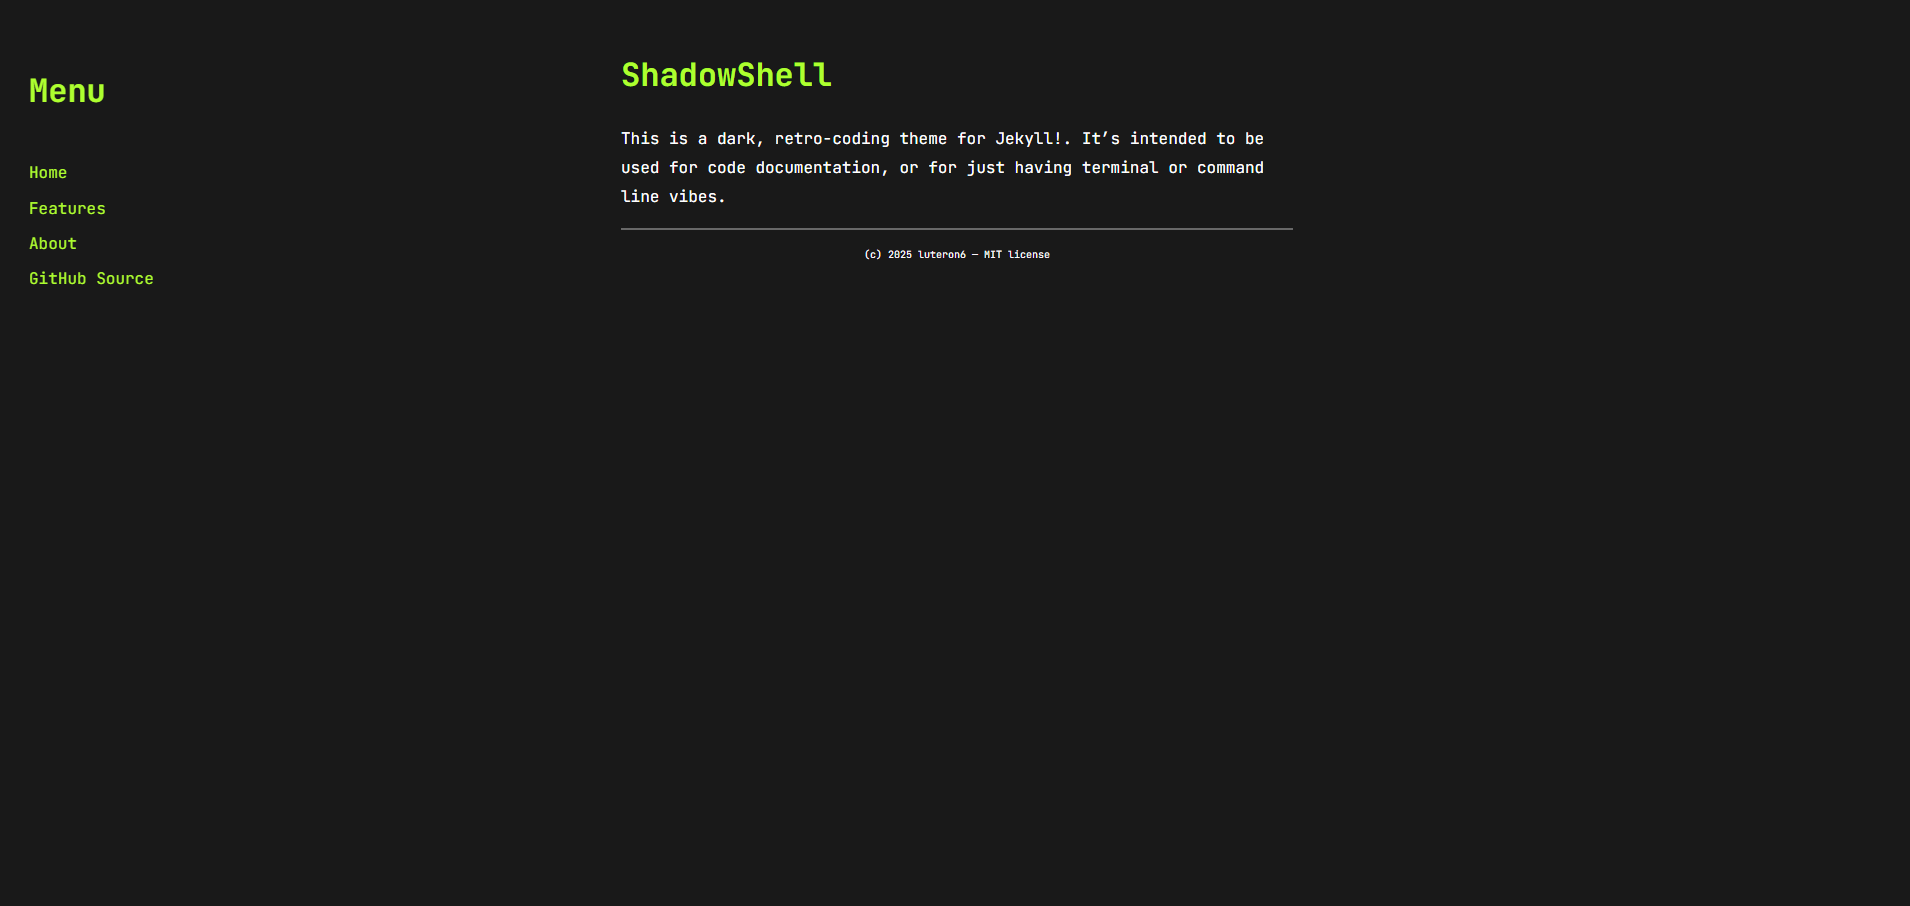
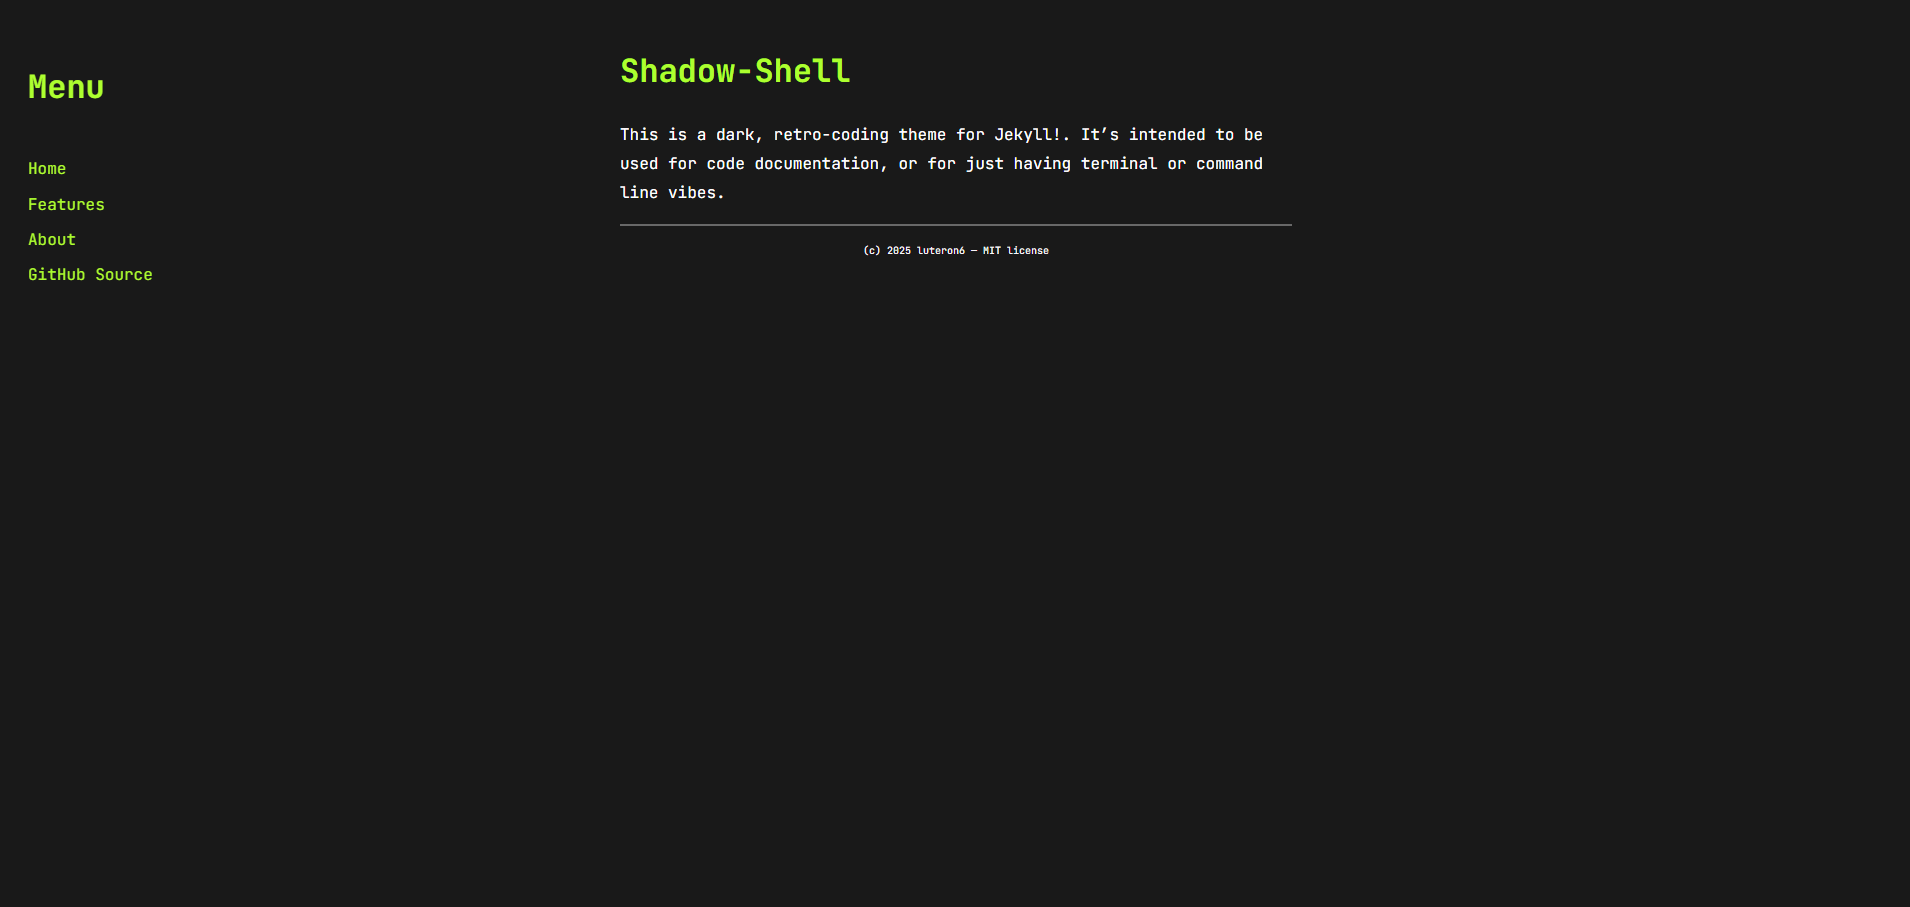
changed to Shadow-Shell

diff --git a/README.md b/README.md
@@ -1,5 +1,5 @@
-# ShadowShell
-**ShadowShell** is a dark, retro-coding theme for Jekyll. It’s intended to be used for code documentation, or for just having terminal or command line vibes.
+# Shadow-Shell
+**Shadow-Shell** is a dark, retro-coding theme for Jekyll. It’s intended to be used for code documentation, or for just having terminal or command line vibes.
 
 <p align="center">
   <img src="template.png" width="900">

diff --git a/index.md b/index.md
@@ -3,5 +3,5 @@ title: home
 layout: default
 ---
 
-# ShadowShell
+# Shadow-Shell
 This is a dark, retro-coding theme for Jekyll!. It's intended to be used for code documentation, or for just having terminal or command line vibes.
